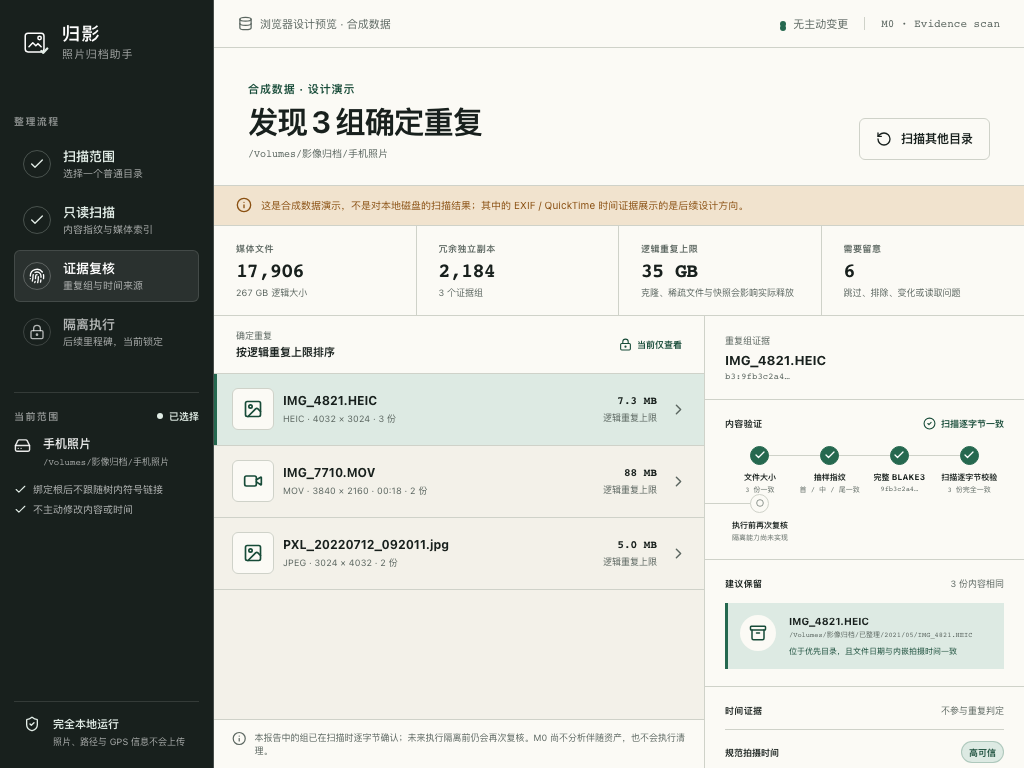
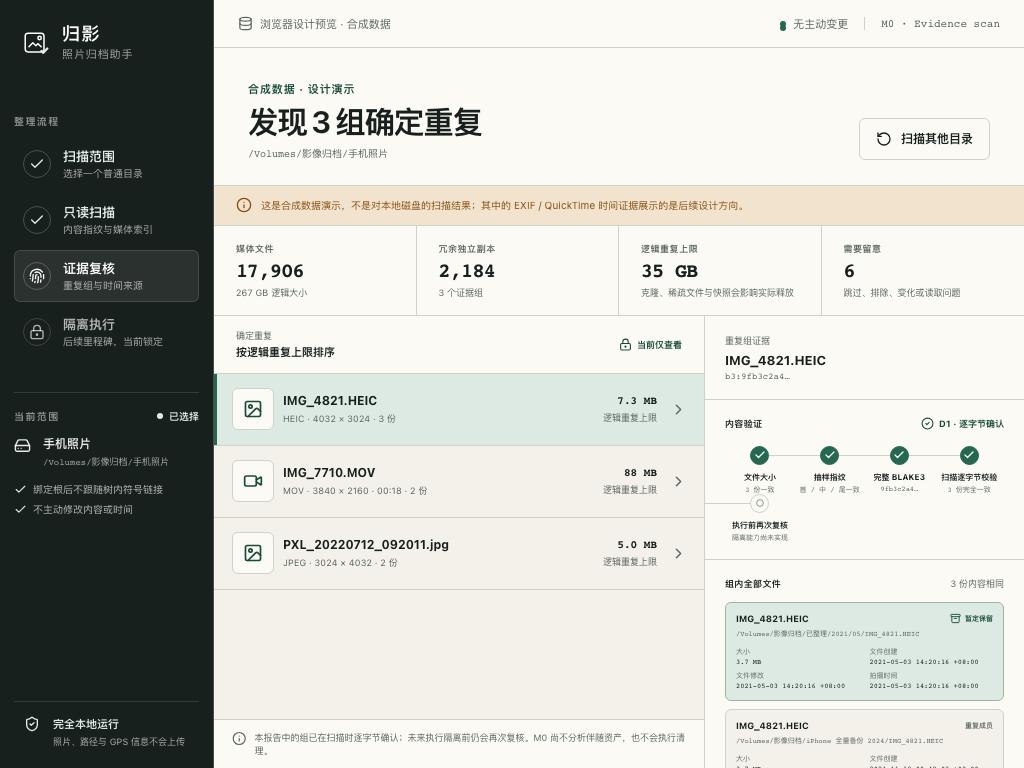
fix(ui): separate duplicate and time evidence

Changed region(s): [[0.6875, 0.75, 1.0, 1.0], [0.9062, 0.5312, 0.9375, 0.5625]]

diff --git a/src/App.tsx b/src/App.tsx
@@ -317,7 +317,7 @@ function GroupRow({
   onSelect: () => void
 }) {
   const MediaIcon = group.mediaKind === 'video' ? Video : group.mediaKind === 'asset' ? Layers3 : ImageIcon
-  const highestConfidence = group.evidence[0]?.confidence ?? 'low'
+  const timeConfidence = group.evidence[0]?.confidence ?? 'low'
 
   return (
     <button
@@ -331,8 +331,11 @@ function GroupRow({
         <strong>{group.files[0]?.name ?? '未命名媒体'}</strong>
         <small>{group.format} · {group.dimensions ?? '尺寸未知'} · {group.files.length} 份</small>
       </span>
-      <span className={`confidence confidence--${highestConfidence}`}>
-        {confidenceLabel(highestConfidence)}
+      <span className="group-row__proofs">
+        <span className="content-proof"><CheckCircle2 aria-hidden="true" size={12} /> D1 · 逐字节确认</span>
+        <span className={`confidence confidence--${timeConfidence}`}>
+          时间：{confidenceLabel(timeConfidence)}
+        </span>
       </span>
       <span className="group-row__saving">
         <strong>{formatBytes(group.reclaimableBytes)}</strong>
@@ -356,13 +359,34 @@ function GroupInspector({ group }: { group: DuplicateGroup }) {
       <section className="inspector-section">
         <div className="inspector-section__title">
           <span>内容验证</span>
-          <span className="verified-label"><CheckCircle2 size={13} /> 扫描逐字节一致</span>
+          <span className="verified-label"><CheckCircle2 size={13} /> D1 · 逐字节确认</span>
         </div>
         <EvidenceRail group={group} />
       </section>
 
       <section className="inspector-section">
-        <div className="inspector-section__title"><span>建议保留</span><span>{group.files.length} 份内容相同</span></div>
+        <div className="inspector-section__title"><span>组内全部文件</span><span>{group.files.length} 份内容相同</span></div>
+        <ol className="group-members">
+          {group.files.map((file) => (
+            <li className={file.isRecommendedKeeper ? 'group-member group-member--keeper' : 'group-member'} key={file.id}>
+              <div className="group-member__heading">
+                <strong>{file.name}</strong>
+                {file.isRecommendedKeeper ? <span><Archive aria-hidden="true" size={11} /> 暂定保留</span> : <span>重复成员</span>}
+              </div>
+              <code title={file.path}>{file.path}</code>
+              <dl>
+                <div><dt>大小</dt><dd>{formatBytes(file.sizeBytes)}</dd></div>
+                <div><dt>文件创建</dt><dd>{file.createdAt ?? '未知'}</dd></div>
+                <div><dt>文件修改</dt><dd>{file.modifiedAt ?? '未知'}</dd></div>
+                <div><dt>拍摄时间</dt><dd>{file.captureTime ?? '尚无内嵌证据'}</dd></div>
+              </dl>
+            </li>
+          ))}
+        </ol>
+      </section>
+
+      <section className="inspector-section">
+        <div className="inspector-section__title"><span>暂定保留建议</span><span>未形成执行计划</span></div>
         <div className="keeper-block">
           <span className="keeper-block__icon"><Archive size={18} /></span>
           <div>
@@ -411,15 +435,15 @@ function IssueDisclosure({ report }: { report: ScanReport }) {
     <details className="issue-disclosure">
       <summary>查看 {report.issues.length.toLocaleString('zh-CN')} 条扫描问题记录</summary>
       <ul>
-        {report.issues.slice(0, 50).map((issue) => (
-          <li key={`${issue.code}-${issue.path}`}>
+        {report.issues.slice(0, 50).map((issue, index) => (
+          <li key={`${issue.code}-${issue.path}-${issue.detail}-${index}`}>
             <code>{issue.code}</code>
             <span title={issue.path}>{issue.path}</span>
             <small>{issue.detail}</small>
           </li>
         ))}
       </ul>
-      {report.issues.length > 50 ? <p>仅显示前 50 条；完整记录将由后续本地审计账本保存。</p> : null}
+      {report.issues.length > 50 ? <p>当前界面仅显示前 50 条；在本地审计账本接入前，请勿把这份视图当作完整问题导出。</p> : null}
     </details>
   )
 }

diff --git a/src/App.css b/src/App.css
@@ -1020,6 +1020,27 @@
   text-align: right;
 }
 
+.group-row__proofs {
+  display: grid;
+  gap: 5px;
+  justify-items: start;
+}
+
+.content-proof {
+  display: inline-flex;
+  min-height: 22px;
+  align-items: center;
+  gap: 4px;
+  padding: 0 7px;
+  color: var(--semantic-text-positive);
+  background: var(--semantic-surface-selected);
+  border: 1px solid color-mix(in srgb, var(--semantic-action-primary) 26%, transparent);
+  border-radius: 999px;
+  font-size: 9px;
+  font-weight: 750;
+  white-space: nowrap;
+}
+
 .group-row__saving strong {
   font-family: var(--semantic-font-numeric);
   font-size: 11px;
@@ -1227,6 +1248,96 @@
   margin: 0;
 }
 
+.group-members {
+  display: grid;
+  gap: 8px;
+  margin: 12px 0 0;
+  padding: 0;
+  list-style: none;
+}
+
+.group-member {
+  min-width: 0;
+  padding: 10px;
+  background: var(--semantic-surface-canvas);
+  border: 1px solid var(--semantic-border-default);
+  border-radius: var(--semantic-radius-control);
+}
+
+.group-member--keeper {
+  background: var(--semantic-surface-selected);
+  border-color: color-mix(in srgb, var(--semantic-action-primary) 28%, var(--semantic-border-default));
+}
+
+.group-member__heading {
+  display: flex;
+  align-items: center;
+  justify-content: space-between;
+  gap: 8px;
+}
+
+.group-member__heading strong {
+  min-width: 0;
+  overflow: hidden;
+  font-size: 9px;
+  text-overflow: ellipsis;
+  white-space: nowrap;
+}
+
+.group-member__heading span {
+  display: inline-flex;
+  flex: 0 0 auto;
+  align-items: center;
+  gap: 4px;
+  color: var(--semantic-text-secondary);
+  font-size: 7px;
+  font-weight: 700;
+}
+
+.group-member--keeper .group-member__heading span {
+  color: var(--semantic-text-positive);
+}
+
+.group-member > code {
+  display: block;
+  margin-top: 5px;
+  overflow: hidden;
+  color: var(--semantic-text-secondary);
+  font-family: var(--semantic-font-numeric);
+  font-size: 7px;
+  text-overflow: ellipsis;
+  white-space: nowrap;
+}
+
+.group-member dl {
+  display: grid;
+  grid-template-columns: repeat(2, minmax(0, 1fr));
+  gap: 5px 10px;
+  margin: 9px 0 0;
+}
+
+.group-member dl div {
+  min-width: 0;
+}
+
+.group-member dt,
+.group-member dd {
+  overflow: hidden;
+  margin: 0;
+  font-size: 7px;
+  text-overflow: ellipsis;
+  white-space: nowrap;
+}
+
+.group-member dt {
+  color: var(--semantic-text-secondary);
+}
+
+.group-member dd {
+  margin-top: 2px;
+  font-family: var(--semantic-font-numeric);
+}
+
 .keeper-block strong {
   font-size: 10px;
 }
@@ -1397,7 +1508,7 @@
     grid-template-columns: 38px minmax(150px, 1fr) 76px 16px;
   }
 
-  .group-row > .confidence {
+  .group-row__proofs {
     display: none;
   }
 }

diff --git a/tests/ui/app.spec.ts b/tests/ui/app.spec.ts
@@ -33,8 +33,12 @@ test('read-only demo scan exposes progress and exact duplicate evidence', async 
 
   await expect(page.getByRole('heading', { name: /发现 3 组确定重复/ })).toBeVisible()
   await expect(page.getByRole('button', { name: /IMG_4821\.HEIC/ })).toHaveAttribute('aria-pressed', 'true')
-  await expect(page.getByText('扫描逐字节一致')).toBeVisible()
+  await expect(page.getByText('D1 · 逐字节确认').first()).toBeVisible()
+  await expect(page.getByText('时间：高可信').first()).toBeVisible()
   await expect(page.getByText('不参与重复判定')).toBeVisible()
+  await expect(page.locator('code').filter({ hasText: '/Volumes/影像归档/已整理/2021/05/IMG_4821.HEIC' })).toBeVisible()
+  await expect(page.locator('code').filter({ hasText: '/Volumes/影像归档/iPhone 全量备份 2024/IMG_4821.HEIC' })).toBeVisible()
+  await expect(page.locator('code').filter({ hasText: '/Volumes/影像归档/手机照片 2025/IMG_4821 2.HEIC' })).toBeVisible()
   await expect(page.getByText(/这是合成数据演示/)).toBeVisible()
 
   const accessibility = await new AxeBuilder({ page }).analyze()
